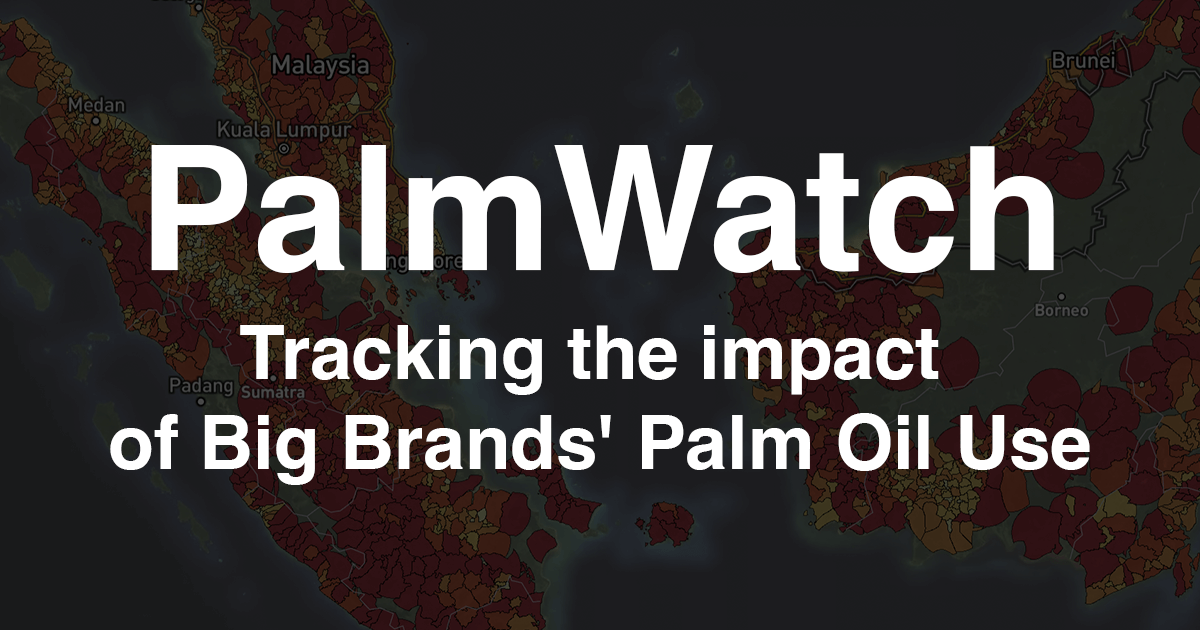
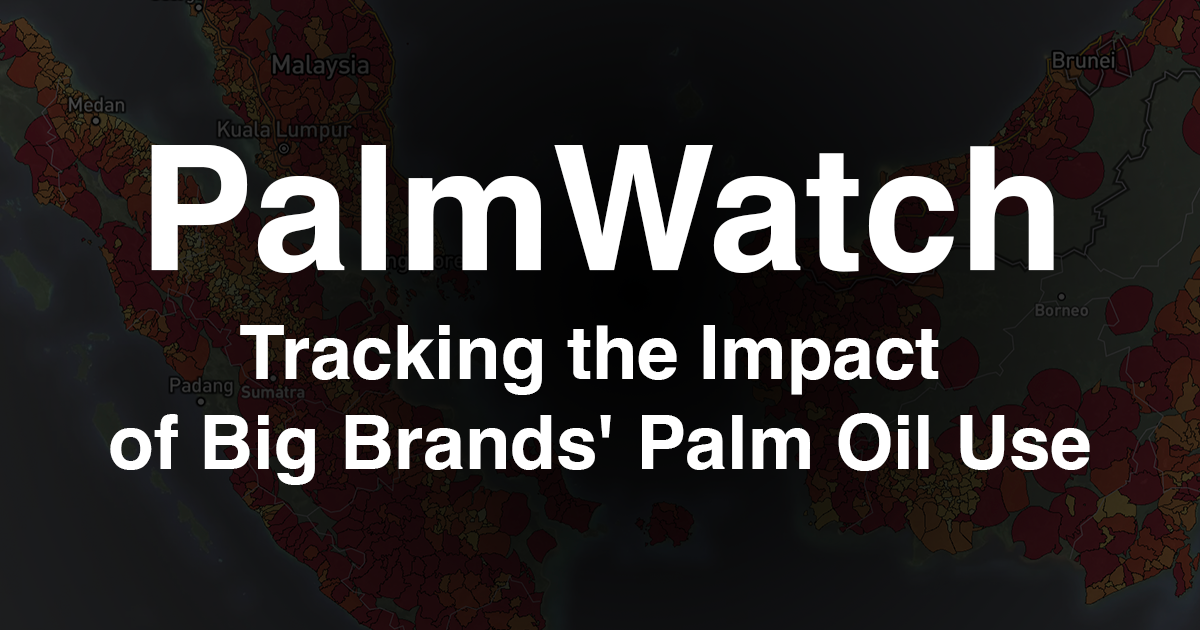
Meta capitalization fix

Changed region(s): [[0.2158, 0.0603, 0.8017, 1.0]]

diff --git a/app/(website)/layout.tsx b/app/(website)/layout.tsx
@@ -8,11 +8,11 @@ import Head from "next/head";
 import { Footer } from "@/components/Footer";
 
 const VERCEL_DOMAIN = `${
-  process.env.VERCEL_URL ? "https://" + process.env.VERCEL_URL : ""
+  process.env.VERCEL_URL ? "https://" + process.env.VERCEL_URL : "https://palmwatch-v2.vercel.app"
 }`;
 
 export const metadata = {
-  title: "PalmWatch: Tracking the impact of Big Brands' Palm Oil Use",
+  title: "PalmWatch: Tracking the Impact of Big Brands' Palm Oil Use",
   description:
     "PalmWatch is an innovative open-access platform leveraging advanced data science and open-source intelligence to map the global palm oil supply chain's impact, connecting major brands like Nestlé, PepsiCo, and Unilever to deforestation and environmental changes.",
   keywords:
@@ -21,26 +21,26 @@ export const metadata = {
   metadataBase: new URL(`${VERCEL_DOMAIN}/`),
   openGraph: {
     url: `${VERCEL_DOMAIN}`,
-    title: "PalmWatch:  Tracking the impact of Big Brands' Palm Oil Use",
+    title: "PalmWatch:  Tracking the Impact of Big Brands' Palm Oil Use",
     description:
       "Discover how major brands' palm oil use drives deforestation and environmental change with PalmWatch, an open-access tool powered by data science and open-source intelligence.",
     images: {
       url: `${VERCEL_DOMAIN}/og-image.png`,
       width: "1200",
       height: "630",
-      alt: "PalmWatch: Tracking the impact of Big Brands' Palm Oil Use",
+      alt: "PalmWatch: Tracking the Impact of Big Brands' Palm Oil Use",
     },
   },
   twitter: {
     card: "summary_large_image",
-    title: "PalmWatch: Tracking the impact of Big Brands' Palm Oil Use",
+    title: "PalmWatch: Tracking the Impact of Big Brands' Palm Oil Use",
     description:
       "PalmWatch reveals the environmental footprint of global palm oil consumption by brands like Nestlé, PepsiCo, and Unilever through advanced data analysis.",
     images: {
       url: `${VERCEL_DOMAIN}/og-image.png`,
       width: "1200",
       height: "630",
-      alt: "PalmWatch: Tracking the impact of Big Brands' Palm Oil Use",
+      alt: "PalmWatch: Tracking the Impact of Big Brands' Palm Oil Use",
     },
     site: "@inclusivedevt",
     creator: "@inclusivedevt",
